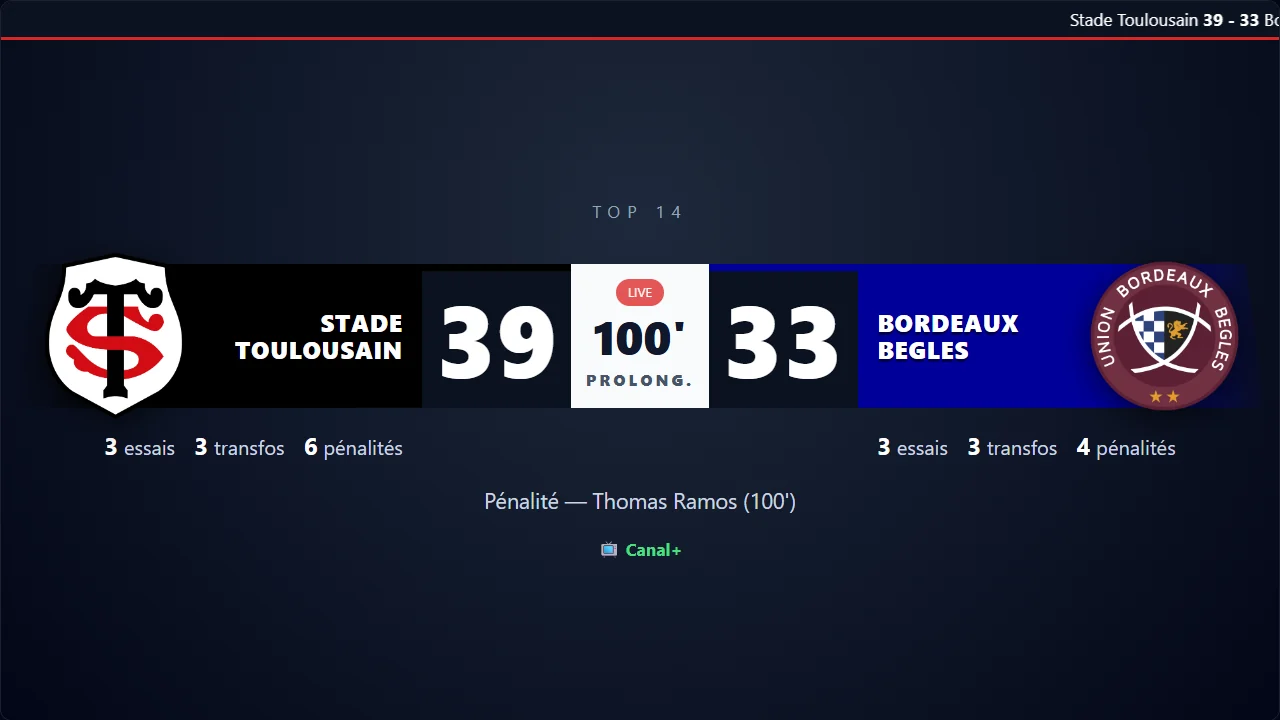
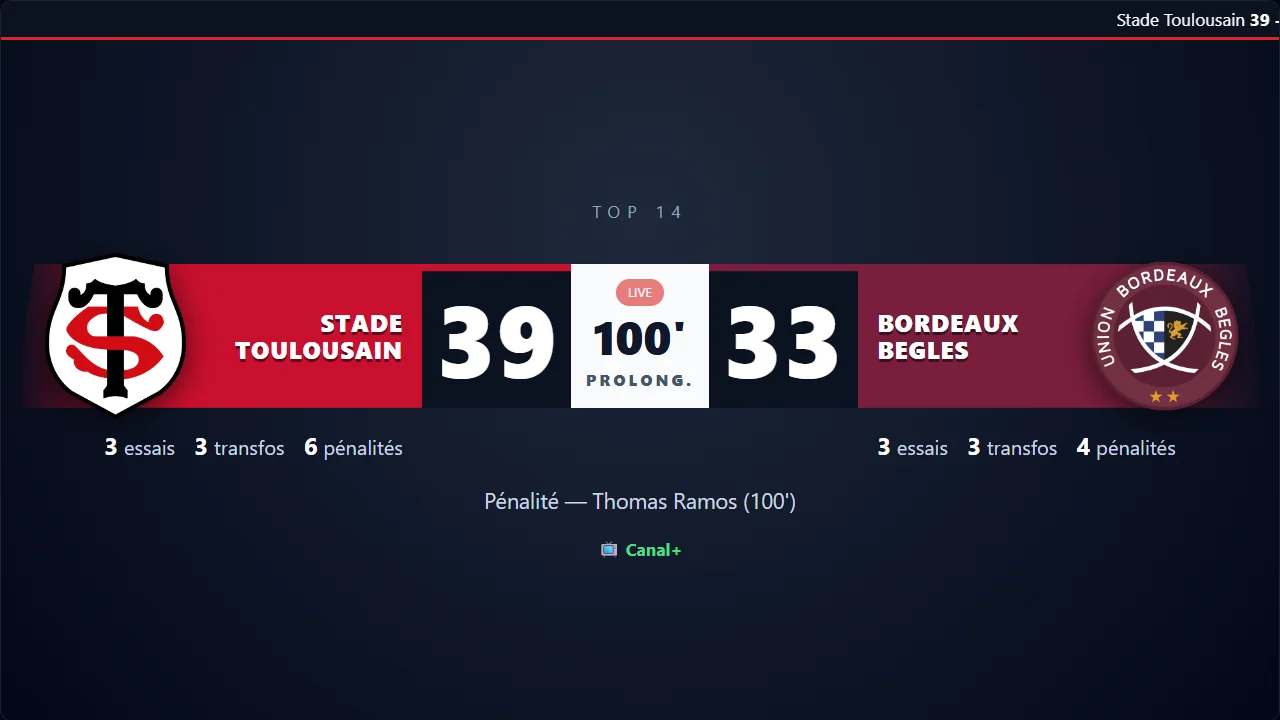
docs(site): demo and screenshots in club colours

diff --git a/site/sim.js b/site/sim.js
@@ -39,13 +39,13 @@ define('ha-icon', class extends HTMLElement {
 });
 
 // ---- Real data: Top 14 final 2025, recorded from ESPN (event 599792, Stade de France) ----
-// Names and colours as ESPN sends them, official LNR logos (as the integration shows them).
+// Names as ESPN sends them; club colours (api.CLUB_COLORS) and LNR logos, as the integration shows them.
 const LNR = (slug) => `https://cdn.lnr.fr/club/${slug}/photo/logo.006973c3fdaf23345d4c26b914dcca87e8ef842a`;
 const team = (id, name, color, slug) => ({ id, name, color, logo: LNR(slug) });
 const TEAMS = Object.fromEntries([
-  team('25922', 'Stade Toulousain', '#000000', 'toulouse'), team('143737', 'Bordeaux Begles', '#000099', 'bordeaux-begles'),
-  team('25912', 'Bayonne', '#6699CC', 'bayonne'), team('25917', 'Clermont Auvergne', '#FFCC00', 'clermont'),
-  team('25986', 'Toulon', '#CC0000', 'toulon'), team('25916', 'Castres Olympique', '#000066', 'castres'),
+  team('25922', 'Stade Toulousain', '#C8102E', 'toulouse'), team('143737', 'Bordeaux Begles', '#7A1E3D', 'bordeaux-begles'),
+  team('25912', 'Bayonne', '#2B8FD0', 'bayonne'), team('25917', 'Clermont Auvergne', '#FFC20E', 'clermont'),
+  team('25986', 'Toulon', '#E2001A', 'toulon'), team('25916', 'Castres Olympique', '#0047AB', 'castres'),
 ].map((t) => [t.id, t]));
 // The replayed match: Stade Toulousain 39 - 33 Bordeaux Begles after extra time.
 // [period, minute, type, side, player]; ESPN puts extra time in period 0.
